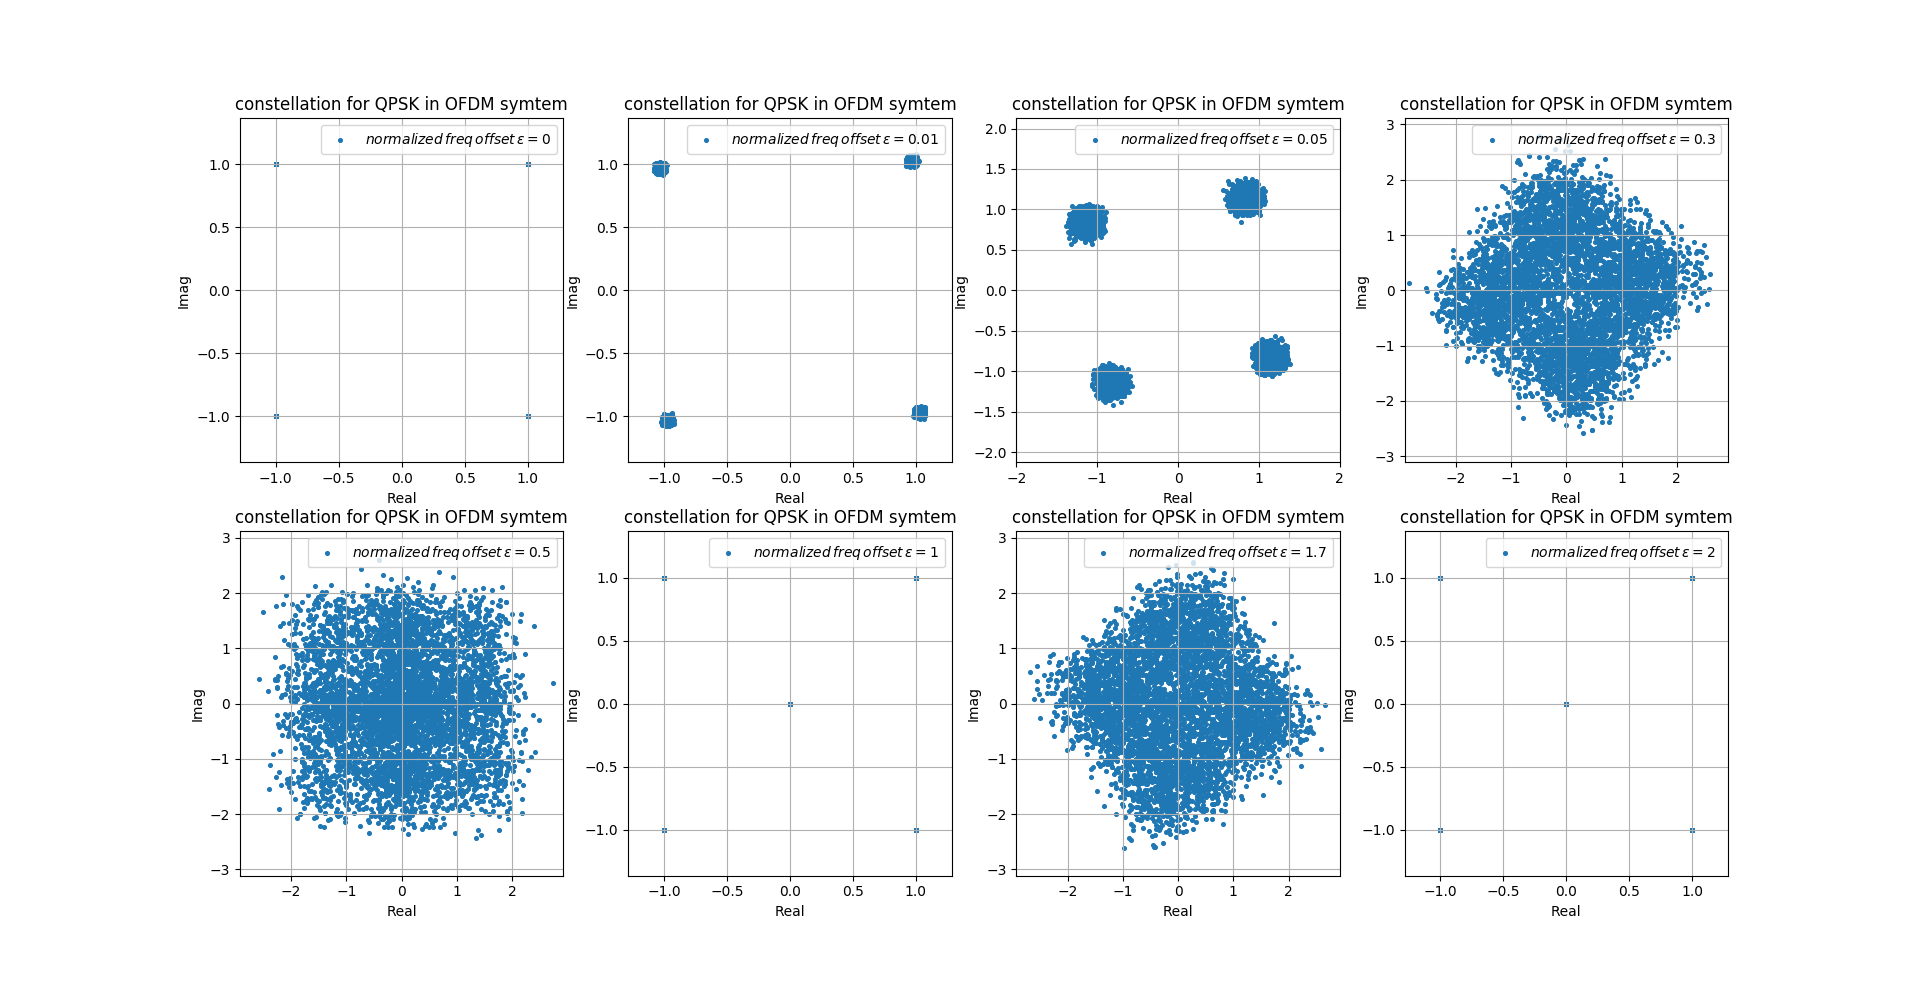
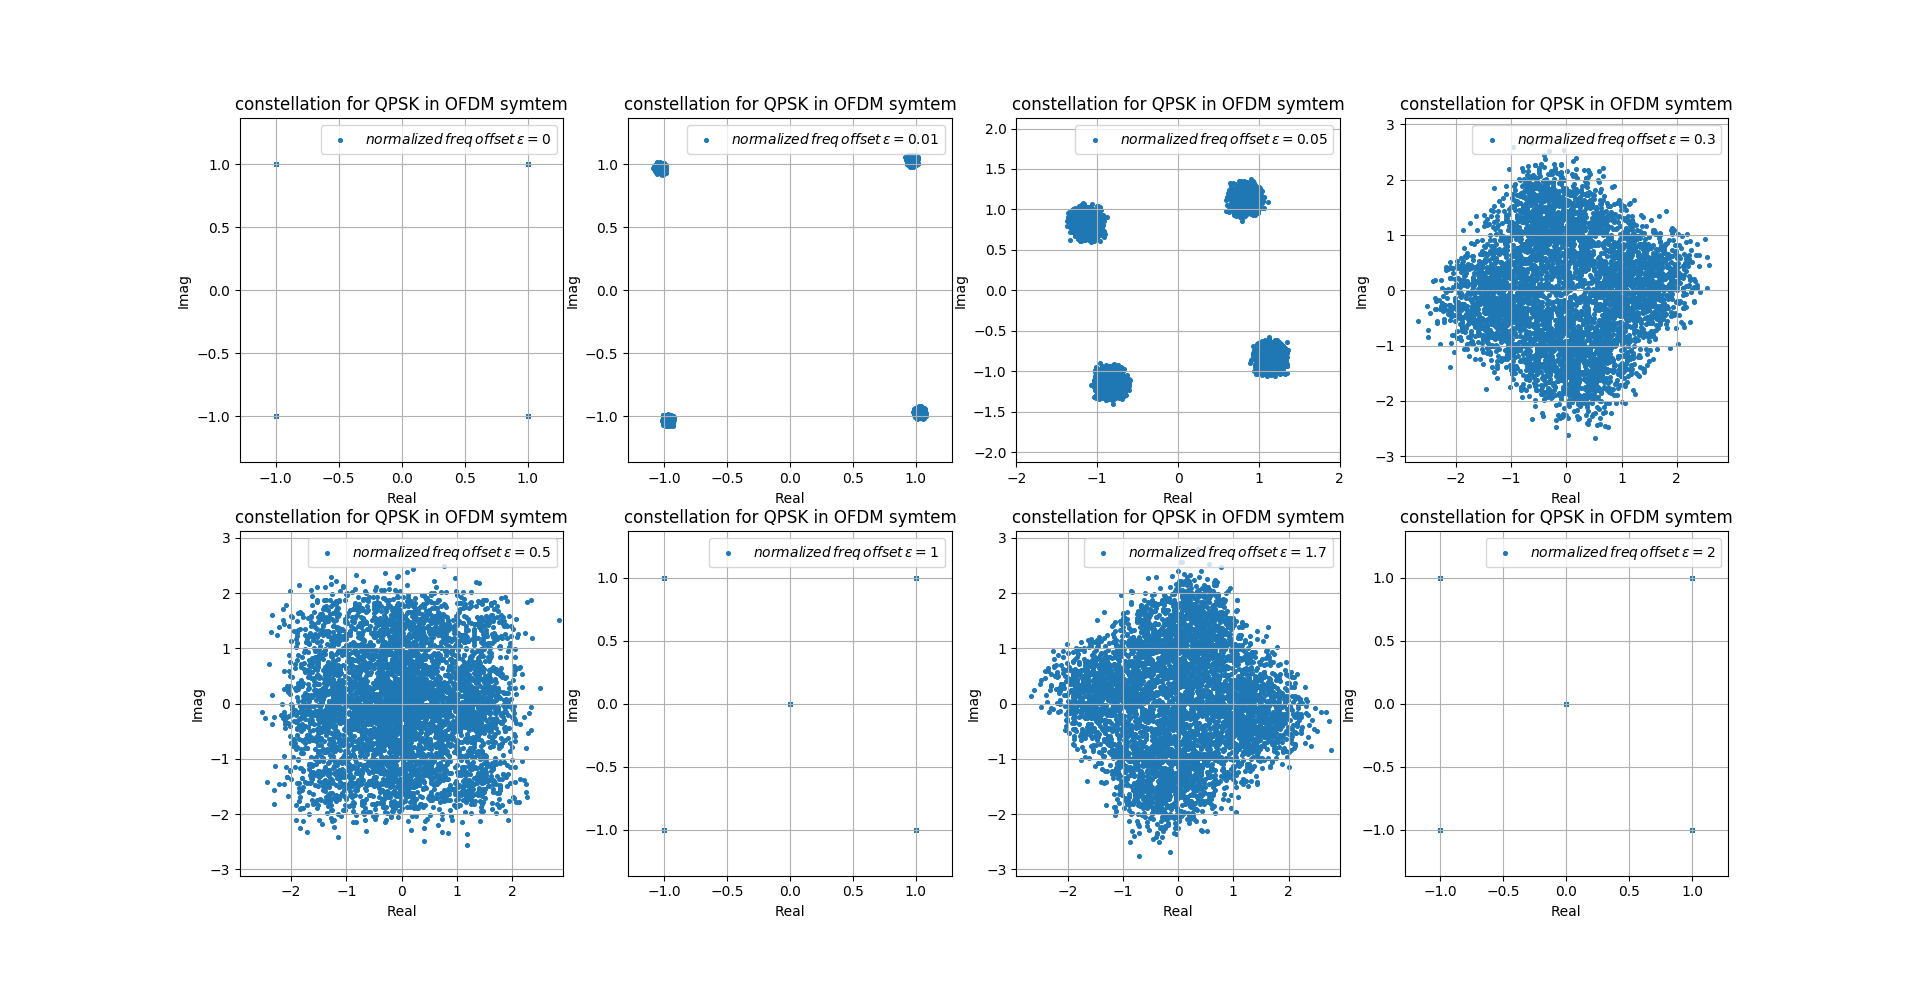
之前一直使用錯誤的方式加入CFO，現在做大幅修正 OFDM已修正: 	如何正確的加入CFO

diff --git a/OFDM/synchronization/CFO estimation(time domain).py b/OFDM/synchronization/CFO estimation(time domain).py
@@ -29,36 +29,44 @@ K = int(np.log2(len(constellation)))            # 代表一個symbol含有K個bi
 
 
 for k in range(3):
-    if k == 1 or k == 2: # CFO Estimation techniques using training symbol
-        # 決定training symbol子載波中的repetitive pattern的週期D
-        if k == 1:
-            D = 2
-        elif k == 2:
-            D = 4
-        Train = [0] * Nfft
-        # 假設training symbol的子載波是採用comb-type方式來送symbol
-        for m in range(Nfft):# 假設所有sub-channel 都有送symbol
-            if m % D == 0:
-                b = np.random.random()  # 產生一個 (0,1) uniform 分布的隨機變數，來決定要送哪個symbol
-                for n in range(len(constellation)):
-                    if b <= (n + 1) / len(constellation):
-                        Train[m] = constellation[n]
-                        break
-        train = np.fft.ifft(Train) # 將頻域的Nfft個 symbol 做 ifft 轉到時域
-
-        # 接下來要加上cyclic prefix
-        t_new = [0] * (Nfft + n_guard)
-        n = 0
-        for m in range(Nfft - n_guard, Nfft, 1):
-            t_new[n] = train[m]
-            n += 1
-        for m in range(Nfft):
-            t_new[n] = train[m]
-            n += 1
-        training_symbol = t_new  # 現在training symbol已經有加上cyclic prefix
-
     for i in range(len(CFO)):
         mse = 0  # 先將mse歸0
+
+        if k == 1 or k == 2:  # CFO Estimation techniques using training symbol
+            # 採用此方法的話要先決定training symbol
+            # 先決定training symbol子載波中的repetitive pattern的週期D
+            if k == 1:
+                D = 2
+            elif k == 2:
+                D = 4
+            Train = [0] * Nfft
+            # 假設training symbol的子載波是採用comb-type方式來送symbol
+            for m in range(Nfft):  # 假設所有sub-channel 都有送symbol
+                if m % D == 0:
+                    b = np.random.random()  # 產生一個 (0,1) uniform 分布的隨機變數，來決定要送哪個symbol
+                    for n in range(len(constellation)):
+                        if b <= (n + 1) / len(constellation):
+                            Train[m] = constellation[n]
+                            break
+            train = np.fft.ifft(Train)  # 將頻域的Nfft個 symbol 做 ifft 轉到時域
+
+            # 接下來要加上cyclic prefix
+            t_new = [0] * (Nfft + n_guard)
+            n = 0
+            for m in range(Nfft - n_guard, Nfft, 1):
+                t_new[n] = train[m]
+                n += 1
+            for m in range(Nfft):
+                t_new[n] = train[m]
+                n += 1
+            training_symbol = t_new  # 現在training symbol已經有加上cyclic prefix
+
+            # 接下來考慮CFO (carrier frequency offset)造成的影響，相當於乘上np.exp(1j * 2*np.pi * CFO [i] * (m-n_guard) / Nfft)
+            # 其中CFO[i] 為normalized frequency offset
+            # 注意，一定要加完cp後才能開始考慮CFO造成的影響
+            for m in range(len(training_symbol)):
+                training_symbol[m] *= np.exp(1j * 2 * np.pi * CFO[i] * (m-n_guard) / Nfft)
+
         for j in range(N):
             s = []  # 用來存放OFDM symbol
 
@@ -85,6 +93,12 @@ for k in range(3):
                 n += 1
             x = x_new  # 現在x已經有加上cyclic prefix
 
+            # 接下來考慮CFO (carrier frequency offset)造成的影響，相當於乘上np.exp(1j * 2*np.pi * CFO [i] * (m-n_guard) / Nfft)
+            # 其中CFO[i] 為normalized frequency offset
+            # 注意，一定要加完cp後才能開始考慮CFO造成的影響
+            for m in range(len(x)):
+                x[m] *= np.exp(1j * 2 * np.pi * CFO[i] * (m-n_guard) / Nfft)
+
             # 這裡先不考慮multipath通道吧
 
             # 如果是採用training symbol估計CFO的技術，則OFDM symbol序列需事先加上training symbol
@@ -92,11 +106,6 @@ for k in range(3):
                 s += training_symbol
             # 將這一個OFDM symbol vector x，加到完整的OFDM symbol 序列中
             s += x
-
-            # 最後考慮frequency offset造成的影響，相當於乘上np.exp(1j * 2*np.pi * CFO [i] * m / Nfft)
-            # 其中CFO[i] 為normalized frequency offset
-            for m in range(len(s)):
-                s[m] *= np.exp(1j * 2*np.pi * CFO[i] * m / Nfft)
 
             # 決定完OFDM symbol 序列後
             # 接下來要統計平均一個symbol有多少能量

diff --git a/OFDM/synchronization/STO estimation(frequency domain).py b/OFDM/synchronization/STO estimation(frequency domain).py
@@ -48,6 +48,10 @@ for k in range(len(STO)):
         n += 1
     training_symbol = t_new  # 現在training symbol已經有加上cyclic prefix
 
+    # 接下來考慮frequency offset造成的影響，相當於乘上np.exp(1j * 2*np.pi * CFO [k] * (m-n_guard) / Nfft)
+    for m in range(len(training_symbol)):
+        training_symbol[m] *= np.exp(1j * 2 * np.pi * CFO[k] * (m - n_guard) / Nfft)
+
     for i in range(N):
         s = []  # 用來存放OFDM symbol
 
@@ -64,10 +68,6 @@ for k in range(len(STO)):
             # 將頻域的Nfft個 symbol 做 ifft 轉到時域
             x = np.fft.ifft(X) #* Nfft  # 乘上Nfft後得到的x序列，才是真正將時域信號取樣後的結果，你可以參考我在symbol timing中的模擬結果
 
-            # 接下來考慮frequency offset造成的影響，相當於乘上np.exp(1j * 2*np.pi * CFO [k] * m / Nfft)
-            for m in range(len(x)):
-                x[m] *= np.exp(1j * 2*np.pi * CFO[k] * m / Nfft)
-
             # 接下來要加上cyclic prefix
             x_new = [0] * (Nfft + n_guard)
             n = 0
@@ -78,6 +78,12 @@ for k in range(len(STO)):
                 x_new[n] = x[m]
                 n += 1
             x = x_new  # 現在x已經有加上cyclic prefix
+
+            # 接下來考慮CFO(carrier frequency offset)造成的影響，相當於乘上np.exp(1j * 2*np.pi * CFO [k] * (m-n_guard) / Nfft)
+            # 其中CFO[k] 為normalized frequency offset
+            # 注意，一定要加完cp後才能開始考慮CFO造成的影響
+            for m in range(len(x)):
+                x[m] *= np.exp(1j * 2 * np.pi * CFO[k] * (m-n_guard) / Nfft)
 
             # 這裡先不考慮multipath通道吧
 

diff --git a/OFDM/synchronization/constellation effected by CFO.py b/OFDM/synchronization/constellation effected by CFO.py
@@ -43,12 +43,6 @@ for k in range(len(normalized_freq_offset)):
         # 將頻域的Nfft個 symbol 做 ifft 轉到時域
         x = np.fft.ifft(X) * Nfft  # 乘上Nfft後得到的x序列，才是真正將時域信號取樣後的結果，你可以參考我在symbol timing中的模擬結果
 
-        # 接下來考慮frequency offset造成的影響，相當於乘上np.exp(1j * 2*np.pi *normalized_ frequency_offset [k]* m / Nfft)
-        for m in range(len(x)):
-            #x[m] *= np.exp(1j * 2 * np.pi * normalized_freq_offset[k] * m / Nfft)
-            # 亦可寫成
-            x[m] *= np.exp(1j * 2 * np.pi * freq_offset[k] * m * t_sample)
-
         # 接下來要加上cyclic prefix
         x_new = [0] * (Nfft + n_guard)
         n = 0
@@ -59,6 +53,13 @@ for k in range(len(normalized_freq_offset)):
             x_new[n] = x[m]
             n += 1
         x = x_new  # 現在x已經有加上cyclic prefix
+
+        # 接下來考慮CFO(carrier frequency offset)造成的影響，相當於乘上np.exp(1j * 2*np.pi *normalized_ frequency_offset [k]* (m-n_guard) / Nfft)
+        # 注意，一定要加完cp後才能開始考慮CFO造成的影響
+        for m in range(len(x)):
+            x[m] *= np.exp(1j * 2 * np.pi * normalized_freq_offset[k] * (m-n_guard) / Nfft)
+            # 亦可寫成
+            #x[m] *= np.exp(1j * 2 * np.pi * freq_offset[k] * (m-n_guard) * t_sample)
 
         # 接下來要考慮multipath通道效應
         for m in range(L):

diff --git a/OFDM/synchronization/STO estimation(time domain).py b/OFDM/synchronization/STO estimation(time domain).py
@@ -53,10 +53,6 @@ for k in range(len(STO)):
             # 將頻域的Nfft個 symbol 做 ifft 轉到時域
             x = np.fft.ifft(X) #* Nfft  # 乘上Nfft後得到的x序列，才是真正將時域信號取樣後的結果，你可以參考我在symbol timing中的模擬結果
 
-            # 接下來考慮frequency offset造成的影響，相當於乘上np.exp(1j * 2*np.pi * CFO [k] * m / Nfft)
-            for m in range(len(x)):
-                x[m] *= np.exp(1j * 2*np.pi * CFO[k] * m / Nfft)
-
             # 接下來要加上cyclic prefix
             x_new = [0] * (Nfft + n_guard)
             n = 0
@@ -67,6 +63,12 @@ for k in range(len(STO)):
                 x_new[n] = x[m]
                 n += 1
             x = x_new  # 現在x已經有加上cyclic prefix
+
+            # 接下來考慮frequency offset造成的影響，相當於乘上np.exp(1j * 2*np.pi * CFO [k] * (m-n_guard) / Nfft)
+            # 其中CFO[k] 為normalized frequency offset
+            # 注意，一定要加完cp後才能開始考慮CFO造成的影響
+            for m in range(len(x)):
+                x[m] *= np.exp(1j * 2 * np.pi * CFO[k] * (m-n_guard) / Nfft)
 
             # 這裡先不考慮multipath通道吧
 
